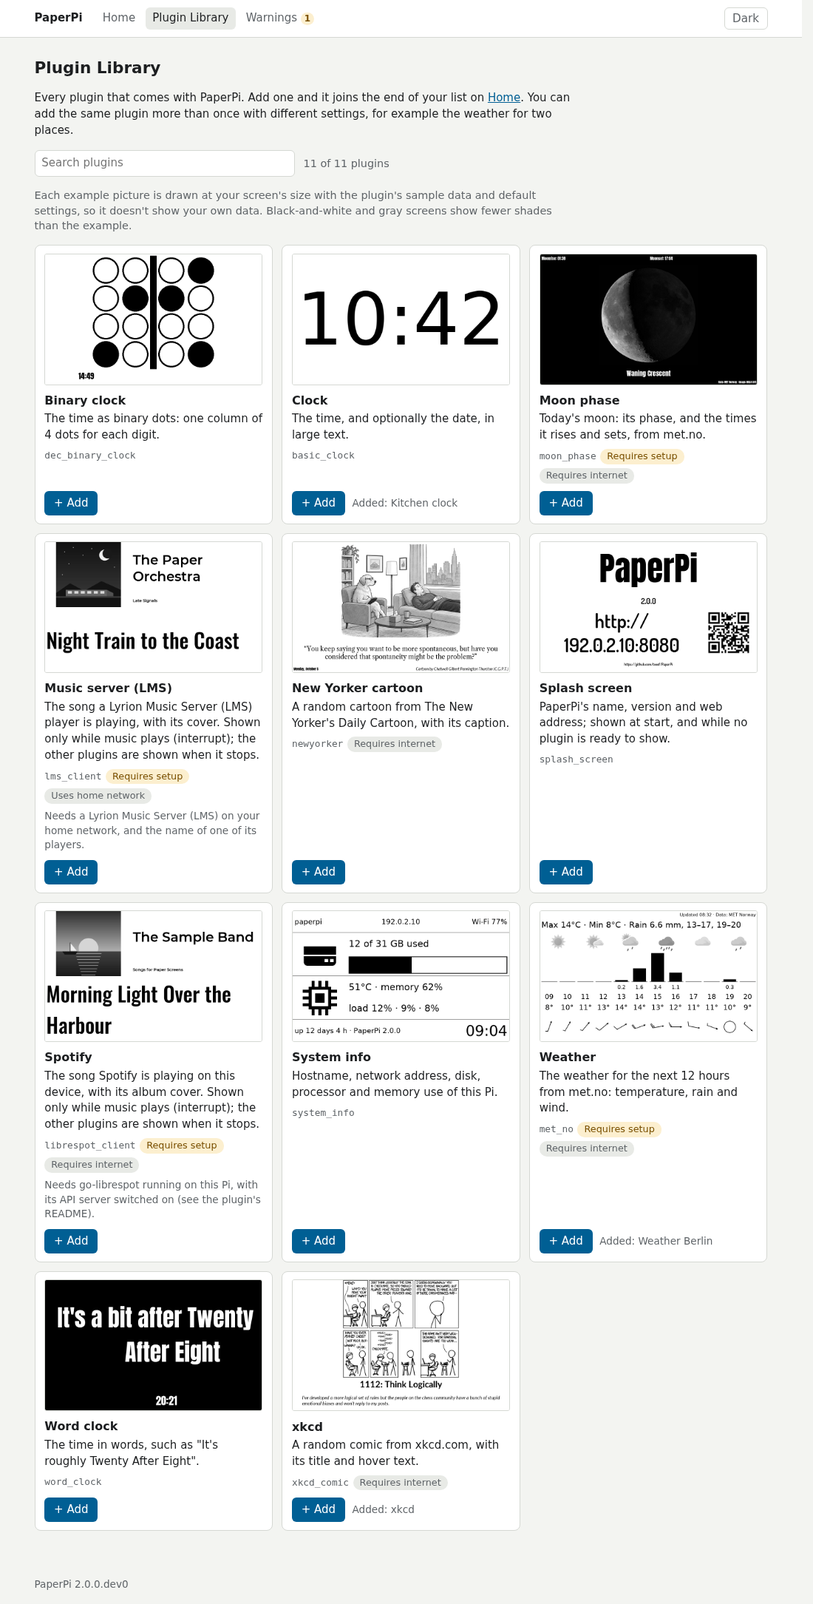
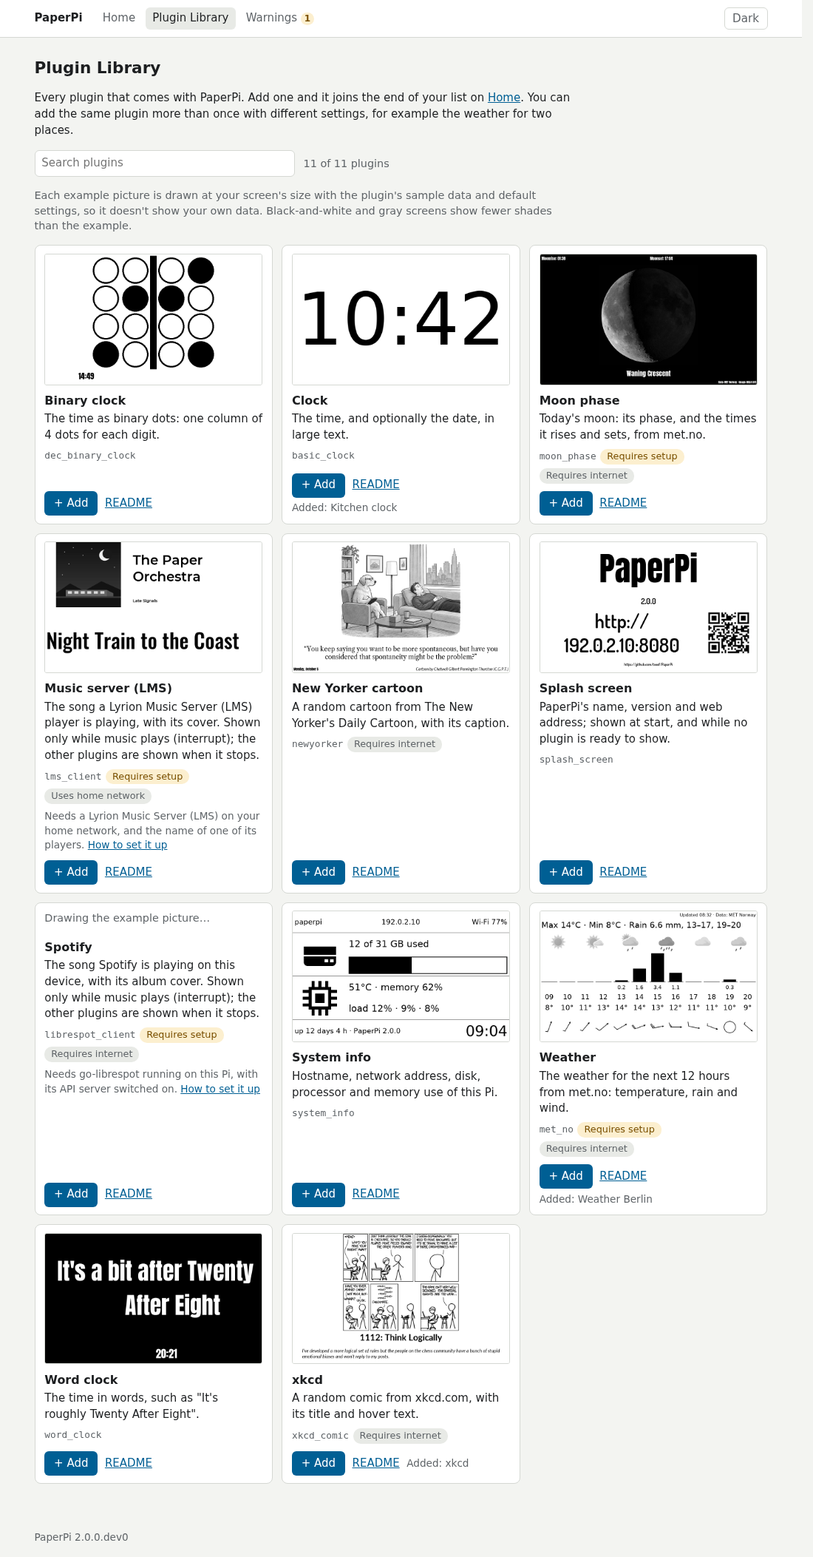
README page for every plugin in the Plugin Library, linked from the cards and the setup note

Changed region(s): [[0.0309, 0.0309, 0.9273, 0.9572], [0.8964, 0.0, 0.9273, 0.0309], [0.2473, 0.0, 0.2782, 0.0309]]

diff --git a/src/paperpi/web/static/style.css b/src/paperpi/web/static/style.css
@@ -272,6 +272,16 @@ button.switch[aria-checked="true"] i::after { left: 14px; }
 .library .labels { display: flex; flex-wrap: wrap; gap: 0.35rem; align-items: center; }
 .library .labels code { font-size: 0.8rem; background: none; padding: 0; color: var(--muted); }
 .library .setup { font-size: 0.85rem; }
+.readme { overflow-wrap: anywhere; }
+.readme h2 { font-size: 1.05rem; margin-top: 1.5rem; }
+.readme table { border-collapse: collapse; display: block; overflow-x: auto; margin: 0.5rem 0; }
+.readme th, .readme td { border: 1px solid var(--line); padding: 0.3rem 0.5rem; text-align: left;
+  vertical-align: top; overflow-wrap: normal; min-width: 7rem; }
+/* The first column holds names (layouts, settings): kept whole; a wide table scrolls. */
+.readme td:first-child, .readme th:first-child { white-space: nowrap; min-width: 0; }
+.readme pre { background: var(--panel); border: 1px solid var(--line); border-radius: 6px;
+  padding: 0.5rem 0.65rem; overflow-x: auto; }
+.readme pre code { background: none; padding: 0; }
 .library .add-row { margin: auto 0 0; padding-top: 0.2rem; display: flex; flex-wrap: wrap;
   gap: 0.3rem 0.6rem; align-items: center; }
 .library .add-row .hint { font-size: 0.85rem; }

diff --git a/src/paperpi/web/templates/library.html b/src/paperpi/web/templates/library.html
@@ -30,8 +30,10 @@ screens show fewer shades than the example.</p>
     <p>{{ item.description }}</p>
     <p class="labels"><code>{{ item.type }}</code>
       {%- for text in item.labels %} <span class="chip{% if text == 'Requires setup' %} warn{% endif %}">{{ text }}</span>{% endfor %}</p>
-    {% if item.plugin.setup %}<p class="hint setup">{{ item.plugin.setup }}</p>{% endif %}
+    {% if item.plugin.setup %}<p class="hint setup">{{ item.plugin.setup }}
+      <a href="/library/{{ item.type }}/readme">How to set it up</a></p>{% endif %}
     <p class="add-row"><a class="add" href="/library/{{ item.type }}">+ Add</a>
+      <a href="/library/{{ item.type }}/readme">README</a>
       {%- if added[item.type] %} <span class="hint">Added: {{ added[item.type]|join(", ") }}</span>{% endif %}</p>
     {% else %}
     <h2>{{ item.title }}</h2>

diff --git a/src/paperpi/web/templates/add.html b/src/paperpi/web/templates/add.html
@@ -5,9 +5,11 @@
 {% block main %}
 <p class="crumbs"><a href="/library">Plugin Library</a> › {{ item.title }}</p>
 <h1>Add {{ item.title }}</h1>
-<p>{{ item.description }} <code class="hint">{{ item.type }}</code></p>
+<p>{{ item.description }} <code class="hint">{{ item.type }}</code>
+  · <a href="/library/{{ item.type }}/readme">README</a></p>
 {% if problem %}<p class="problem">{{ problem|sentence }}</p>{% endif %}
-{% if item.plugin.setup %}<p class="note">Before it works: {{ item.plugin.setup }}</p>{% endif %}
+{% if item.plugin.setup %}<p class="note">Before it works: {{ item.plugin.setup }}
+  <a href="/library/{{ item.type }}/readme">How to set it up</a></p>{% endif %}
 {% if item.required %}
 <div class="note">
   <p>This plugin is not shown until these settings are filled in, so it is added switched off:</p>

diff --git a/src/paperpi/web/templates/readme.html b/src/paperpi/web/templates/readme.html
@@ -1,0 +1,12 @@
+{% extends "base.html" %}
+{% set logged_in = true %}
+{% set page = "library" %}
+{% block title %}{{ item.title }} README · PaperPi{% endblock %}
+{% block main %}
+<p class="crumbs"><a href="/library">Plugin Library</a> › {{ item.title }}</p>
+<h1>{{ item.title }}</h1>
+<p class="hint"><code>{{ item.type }}</code>: the plugin's README, as it comes with this
+version of PaperPi.</p>
+<div class="readme">{{ body|safe }}</div>
+<p><a class="add" href="/library/{{ item.type }}">+ Add</a> <a href="/library">Back to the Plugin Library</a></p>
+{% endblock %}

diff --git a/src/paperpi/web/readme.py b/src/paperpi/web/readme.py
@@ -1,0 +1,83 @@
+"""A plugin's ``README.md`` as part of a web page (the Plugin Library's README page).
+
+The README is written for GitHub, next to the code. In the web interface:
+- its first heading is left out (the page has its own, with the plugin's title);
+- pictures are left out: they are in ``tests/images/``, which is not installed (the
+  Library shows the plugin's own example pictures), and so are the "Sample images"
+  section and the paragraphs, table rows and tables left empty without them;
+- a link to another plugin's README opens that plugin's README page; links to websites
+  stay; other links (files of PaperPi's source, places in the page) become plain text;
+- HTML written in the README is shown as text, not used.
+"""
+
+from __future__ import annotations
+
+import re
+from collections.abc import Collection
+
+from markdown_it import MarkdownIt
+from markdown_it.token import Token
+
+_MD = MarkdownIt("commonmark", {"html": False}).enable("table")
+_OTHER_README = re.compile(r"(?:\.\./)?([a-z][a-z0-9_]*)/README\.md(?:#.*)?")
+_EMPTY_ROW = re.compile(r"<tr>(?:\s*<t[dh](?: [^>]*)?>\s*</t[dh]>)+\s*</tr>\s*")
+_EMPTY_BODY = re.compile(r"<tbody>\s*</tbody>\s*")
+_HEAD_ONLY = re.compile(r"<table>\s*<thead>(?:(?!</table>).)*</thead>\s*</table>\s*", re.DOTALL)
+_EMPTY_TABLE = re.compile(r"<table>\s*(?:<thead>\s*</thead>\s*)?</table>\s*")
+
+
+def to_html(text: str, plugin_types: Collection[str]) -> str:
+    """``text`` (Markdown) as HTML; ``plugin_types`` are the plugins with a README page."""
+    tokens = _MD.parse(text)
+    if len(tokens) >= 3 and tokens[0].type == "heading_open" and tokens[0].tag == "h1":
+        tokens = tokens[3:]
+    tokens = _without_section(tokens, "Sample images")
+    for token in tokens:
+        if token.type == "inline" and token.children:
+            token.children = _inline(token.children, plugin_types)
+    found = _MD.renderer.render(tokens, _MD.options, {})
+    found = found.replace("<p></p>\n", "")  # a paragraph that only had a picture
+    found = _EMPTY_ROW.sub("", found)
+    found = _EMPTY_BODY.sub("", found)
+    found = _HEAD_ONLY.sub("", found)
+    return _EMPTY_TABLE.sub("", found)
+
+
+def _without_section(tokens: list[Token], title: str) -> list[Token]:
+    """``tokens`` without the ``##`` section called ``title`` (up to the next one)."""
+    kept: list[Token] = []
+    skipping = False
+    for index, token in enumerate(tokens):
+        if token.type == "heading_open" and token.tag in ("h1", "h2"):
+            skipping = token.tag == "h2" and tokens[index + 1].content.strip() == title
+        if not skipping:
+            kept.append(token)
+    return kept
+
+
+def _inline(children: list[Token], plugin_types: Collection[str]) -> list[Token]:
+    kept: list[Token] = []
+    opened: list[bool] = []  # per open link: is it kept?
+    for token in children:
+        if token.type == "image":
+            continue
+        if token.type == "link_open":
+            href = _href(str(token.attrGet("href") or ""), plugin_types)
+            opened.append(href is not None)
+            if href is None:
+                continue
+            token.attrSet("href", href)
+        elif token.type == "link_close" and not opened.pop():
+            continue
+        kept.append(token)
+    return kept
+
+
+def _href(href: str, plugin_types: Collection[str]) -> str | None:
+    """Where a link in a README goes on the web page; ``None``: no link (plain text)."""
+    if href.startswith(("https://", "http://")):
+        return href
+    other = _OTHER_README.fullmatch(href)
+    if other and other.group(1) in plugin_types:
+        return f"/library/{other.group(1)}/readme"
+    return None

diff --git a/tests/test_web_plugins.py b/tests/test_web_plugins.py
@@ -194,9 +194,11 @@ def test_the_library_works_while_the_config_file_cant_be_read(client, cfg):
 def test_a_setup_note_is_on_the_card_and_the_add_page(client):
     note = web_plugins.library_item("librespot_client").plugin.setup
     assert "go-librespot" in note
-    assert f'<p class="hint setup">{note}</p>' in html.unescape(client.get("/library").text)
+    link = '<a href="/library/librespot_client/readme">How to set it up</a></p>'
+    page = html.unescape(client.get("/library").text)
+    assert f'<p class="hint setup">{note}\n      {link}' in page
     form = html.unescape(client.get("/library/librespot_client").text)
-    assert f'<p class="note">Before it works: {note}</p>' in form
+    assert f'<p class="note">Before it works: {note}\n  {link}' in form
     assert "added switched off" not in form  # nothing to fill in
 
 
@@ -494,3 +496,25 @@ def test_settings_of_an_unknown_plugin_type_cant_be_saved(editor, cfg):
     cfg.write_text(CONFIG.replace('type = "basic_clock"\n\n', 'type = "nothing"\n\n', 1))
     with pytest.raises(EditError, match="its plugin type 'nothing' can't be used"):
         editor.save_settings(0, "Clock", {"hours": ["12"]})
+
+
+def test_every_card_links_to_the_plugins_readme(client):
+    page = client.get("/library").text
+    for item in web_plugins.library():
+        assert f'<a href="/library/{item.type}/readme">README</a>' in page, item.type
+
+
+def test_the_readme_page(client):
+    page = client.get("/library/librespot_client/readme").text
+    assert "<h1>Spotify</h1>" in page and "<h1>librespot_client</h1>" not in page
+    assert '<a href="https://github.com/devgianlu/go-librespot">go-librespot</a>' in page
+    assert "enabled: true" in page  # the config.yml example
+    assert "<img" not in page and "Sample images" not in page
+    assert '<a class="add" href="/library/librespot_client">+ Add</a>' in page
+
+
+@pytest.mark.parametrize("plugin_type", ["nope", "debugging"])
+def test_no_readme_page_for_unknown_or_hidden_plugins(client, plugin_type):
+    response = client.get(f"/library/{plugin_type}/readme")
+    assert response.status_code == 404 and "No README for this plugin." in response.text
+    assert client.get("/library/..%2F..%2Fconfig/readme").status_code == 404

diff --git a/tests/test_web_readme.py b/tests/test_web_readme.py
@@ -1,0 +1,53 @@
+"""A plugin's README as part of a web page (paperpi.web.readme)."""
+
+from paperpi import plugins
+from paperpi.web.readme import to_html
+
+TYPES = ["basic_clock", "met_no"]
+
+
+def test_the_first_heading_and_pictures_are_left_out():
+    found = to_html(
+        "# basic_clock\n\nShows the time.\n\n![time](../../tests/images/x.png)\n", TYPES
+    )
+    assert found == "<p>Shows the time.</p>\n"
+
+
+def test_a_table_of_pictures_and_the_sample_images_section_are_left_out():
+    text = (
+        "## Layouts\n\n| Layout | Shows |\n|---|---|\n| `time` | the time |\n\n"
+        "| time | small |\n|---|---|\n| ![a](a.png) | ![b](b.png) |\n\n"
+        "## Sample images\n\nAll sample images are in `tests/images/`.\n\n"
+        "## Licence\n\nFree.\n"
+    )
+    found = to_html(text, TYPES)
+    assert found.count("<table>") == 1 and "<td><code>time</code></td>" in found
+    assert "Sample images" not in found and "tests/images" not in found
+    assert "<h2>Licence</h2>\n<p>Free.</p>" in found
+
+
+def test_links_to_websites_and_other_readmes_stay_other_links_become_text():
+    text = (
+        "[go](https://example.com/go), [weather](../met_no/README.md#layouts), "
+        "[gone](../gone/README.md), [main](../../../../README.md), [here](#settings), "
+        "[`fonts/OFL.txt`](../../fonts/OFL.txt)"
+    )
+    found = to_html(text, TYPES)
+    assert '<a href="https://example.com/go">go</a>' in found
+    assert '<a href="/library/met_no/readme">weather</a>' in found
+    assert "gone, main, here, <code>fonts/OFL.txt</code>" in found
+    assert found.count("<a ") == 2
+
+
+def test_html_in_a_readme_is_shown_as_text():
+    found = to_html("<script>alert(1)</script> and <b>bold</b> [x](javascript:alert(1))", TYPES)
+    assert "&lt;script&gt;" in found and "<script" not in found and "<b>" not in found
+    assert "href=" not in found  # not a link that runs a script
+
+
+def test_every_plugins_readme_can_be_shown():
+    types = plugins.available()
+    for plugin_type in types:
+        found = to_html(plugins.readme(plugin_type), types)
+        assert "<h2>Layouts</h2>" in found and "<img" not in found, plugin_type
+        assert "Sample images" not in found

diff --git a/src/paperpi/web/app.py b/src/paperpi/web/app.py
@@ -23,7 +23,8 @@ Address            What it does
 ``/library``       Plugin Library: every plugin type with an example picture
                    (``/library/pictures/<file>``; ``/library/<type>/picture`` is the
                    picture's part of the page, asked for again until it is drawn);
-                   ``/library/<type>`` adds one and opens its settings
+                   ``/library/<type>`` adds one and opens its settings;
+                   ``/library/<type>/readme`` shows its README
 ``/changes``       Review changes: hand edits to the config file that PaperPi does not
                    use yet (``/changes/apply`` loads the file again, ``/changes/undo``
                    puts back the file PaperPi uses); a bar on every page links here while
@@ -67,7 +68,8 @@ from starlette.concurrency import run_in_threadpool
 from .. import __version__, limits
 from ..config import ConfigError, folder_name, read_text
 from ..logbook import Logbook
-from . import changes, logs, warnings
+from ..plugins import readme as readme_text
+from . import changes, logs, readme, warnings
 from .auth import COOKIE_SECONDS, Auth, new_cookie
 from .config_file import EditError, UnknownForm, fingerprint, kept_path, saved_here
 from .forms import Read, fields, form_texts
@@ -755,6 +757,15 @@ def create_app(
             return library_page(request, 404, "No such plugin.")
         values.setdefault("name", editor.suggested_name(item))
         return page(request, "add.html", status, item=item, **values)
+
+    @app.get("/library/{plugin_type}/readme", response_class=HTMLResponse)
+    def readme_page(request: Request, plugin_type: str):
+        item = library_item(plugin_type)
+        text = readme_text(plugin_type) if item is not None and item.plugin else None
+        if text is None:
+            return library_page(request, 404, "No README for this plugin.")
+        body = readme.to_html(text, [i.type for i in library() if i.plugin])
+        return page(request, "readme.html", item=item, body=body)
 
     @app.get("/library/{plugin_type}", response_class=HTMLResponse)
     def add_form(request: Request, plugin_type: str):

diff --git a/src/paperpi/plugins/__init__.py b/src/paperpi/plugins/__init__.py
@@ -7,6 +7,7 @@ from __future__ import annotations
 
 import importlib
 import pkgutil
+from importlib import resources
 
 from ..plugin import Plugin, PluginDefinitionError
 
@@ -35,3 +36,14 @@ def load(plugin_type: str, package: str = __name__) -> Plugin:
             f"plugin {plugin_type!r}: PLUGIN.type is {plugin.type!r}, must match the folder"
         )
     return plugin
+
+
+def readme(plugin_type: str, package: str = __name__) -> str | None:
+    """The text of the plugin's ``README.md``, or ``None`` when it has none (or the type is
+    unknown)."""
+    if plugin_type not in available(package):
+        return None
+    try:
+        return (resources.files(package) / plugin_type / "README.md").read_text("utf-8")
+    except (OSError, UnicodeDecodeError):
+        return None

diff --git a/src/paperpi/plugins/librespot_client/__init__.py b/src/paperpi/plugins/librespot_client/__init__.py
@@ -281,10 +281,7 @@ PLUGIN = Plugin(
     type="librespot_client",
     title="Spotify",
     network="internet",
-    setup=(
-        "Needs go-librespot running on this Pi, with its API server "
-        "switched on (see the plugin's README)."
-    ),
+    setup=("Needs go-librespot running on this Pi, with its API server switched on."),
     description="The song Spotify is playing on this device, with its album cover. "
     "Shown only while music plays (interrupt); the other plugins are shown when it stops.",
     settings=Settings,

diff --git a/README.md b/README.md
@@ -103,7 +103,7 @@ uv run paperpi run --config paperpi.toml --out screen/ --state-dir state/ --heal
 `paperpi run` also starts the web interface, on port 8080. Every page has a menu (on a phone: one **☰ Menu** button) and a **Dark**/**Light** button; otherwise the pages follow your device's light or dark setting.
 
 ![The Home page of the web interface](docs/images/web/home-light.png)
- Open it by the Pi's IP address on a phone or computer on the same home network, for example `http://192.168.1.20:8080` (your router's list of devices shows the Pi's address; on the Pi, `hostname -I` prints it). Names such as `paperpi.local` are refused for now, for safety (see [docs/decisions/web-interface.md](docs/decisions/web-interface.md)). It has three pages for plugins: **Home** (at the top, the picture on the screen now, which updates by itself while the page is open, with **Skip to next**, **Refresh** (fetch new data and draw again) and **Dismiss alert**; below it a card for every plugin, as a list or a grid, with its latest picture, its place in the order and its status: **Show now**, switch it on or off, move it with the arrows or drag it after **Change order**, remove it, open its settings), **Plugin Library** (a card for every plugin that comes with PaperPi, with its name, labels such as "Requires setup" and "Requires internet", the names you already added it under, a search box, and an example picture drawn at your screen's size from the plugin's sample data (in 256 shades of gray, or in color for a color screen), in the background: it starts a minute after PaperPi starts or when you open the page, and until then the page says "Drawing the example picture…"; choose **+ Add**, its name or picture to add it at the end of the list) and each plugin's **Settings** (every setting with its help text and default; errors are shown next to the field; **Preview** draws the plugin with the settings in the form before you save them, at your screen's size, without touching the screen; if the real data can't be drawn, it shows sample data and says why). A change there is saved in the config file and applies at once. Comments in the file stay, except the comments of a plugin you remove and a comment written after a setting, on the same line, when the web interface changes that setting. After you edit the config file by hand, a bar on every page says that PaperPi does not use the changes yet; its **Review changes** page lists them (old and new value, per plugin) and has **Apply changes** (or send the reload signal, `kill -HUP <process id>`; the page shows the command) and **Undo hand edits**, which puts back the file PaperPi uses and keeps your edited file as `paperpi.toml.undone` next to it. If the config file changed since the page was opened, is written in a way the web interface can't change safely, or has a problem that stops PaperPi from using it, nothing is saved and the page says so. A plugin that needs settings (such as `met_no`, which needs a place and your email address) is added switched off, and its Settings page opens to fill them in.
+ Open it by the Pi's IP address on a phone or computer on the same home network, for example `http://192.168.1.20:8080` (your router's list of devices shows the Pi's address; on the Pi, `hostname -I` prints it). Names such as `paperpi.local` are refused for now, for safety (see [docs/decisions/web-interface.md](docs/decisions/web-interface.md)). It has three pages for plugins: **Home** (at the top, the picture on the screen now, which updates by itself while the page is open, with **Skip to next**, **Refresh** (fetch new data and draw again) and **Dismiss alert**; below it a card for every plugin, as a list or a grid, with its latest picture, its place in the order and its status: **Show now**, switch it on or off, move it with the arrows or drag it after **Change order**, remove it, open its settings), **Plugin Library** (a card for every plugin that comes with PaperPi, with its name, labels such as "Requires setup" and "Requires internet", the names you already added it under, a link to its README, a search box, and an example picture drawn at your screen's size from the plugin's sample data (in 256 shades of gray, or in color for a color screen), in the background: it starts a minute after PaperPi starts or when you open the page, and until then the page says "Drawing the example picture…"; choose **+ Add**, its name or picture to add it at the end of the list) and each plugin's **Settings** (every setting with its help text and default; errors are shown next to the field; **Preview** draws the plugin with the settings in the form before you save them, at your screen's size, without touching the screen; if the real data can't be drawn, it shows sample data and says why). A change there is saved in the config file and applies at once. Comments in the file stay, except the comments of a plugin you remove and a comment written after a setting, on the same line, when the web interface changes that setting. After you edit the config file by hand, a bar on every page says that PaperPi does not use the changes yet; its **Review changes** page lists them (old and new value, per plugin) and has **Apply changes** (or send the reload signal, `kill -HUP <process id>`; the page shows the command) and **Undo hand edits**, which puts back the file PaperPi uses and keeps your edited file as `paperpi.toml.undone` next to it. If the config file changed since the page was opened, is written in a way the web interface can't change safely, or has a problem that stops PaperPi from using it, nothing is saved and the page says so. A plugin that needs settings (such as `met_no`, which needs a place and your email address) is added switched off, and its Settings page opens to fill them in.
 
 - **First visit:** the first person to open it sets the web password (at least 8 characters). The browser then stays logged in for a year, until **Log out**. Log out only logs out that browser; a new password logs out every browser.
 - **Forgotten password:** you need access to the Pi itself (a keyboard and screen, or SSH).

diff --git a/docs/decisions/web-interface.md b/docs/decisions/web-interface.md
@@ -110,7 +110,7 @@ In v2 the web interface is the main way to set up and change PaperPi: plugins, s
 
 **Plugin Library**
 - A card per plugin: example picture, a plain name (a new `title` in the plugin's definition, e.g. "Weather"; the type is shown small), the description, labels ("Uses the internet", "Configuration Required"), the names it was already added under, a search box, and **+ Add**.
-- *How the cards are built (part 4, Library refresh A, 2026-10-15):* the label texts are txoof's: **Requires setup** (the plugin has required settings, so it is added switched off, or needs something set up outside PaperPi first: a new `setup` sentence in its definition, shown on the card and the Add page; Spotify needs go-librespot, LMS a music server; txoof 2026-10-15), **Requires internet** and **Uses home network** (a new `network` field in the plugin's definition: `"internet"` or `"home"`, e.g. the LMS plugin talks to a music server at home; Spotify gets "Requires internet", txoof 2026-10-15, as it fetches covers from Spotify and plays nothing offline). The mockup's "For testing" label is left out, as the `debugging` plugin stays hidden from the Library. Cards are sorted by title. The title also starts the suggested name ("Weather 2") and heads the Add page. "Added:" lists the names from the config file per type (left out when the file can't be read). The search box needs JavaScript (`library.js`; hidden without it, and then every card shows): it keeps the cards whose title, type, description or labels hold every word typed, and says "N of M plugins".
+- *How the cards are built (part 4, Library refresh A, 2026-10-15):* the label texts are txoof's: **Requires setup** (the plugin has required settings, so it is added switched off, or needs something set up outside PaperPi first: a new `setup` sentence in its definition, shown on the card and the Add page; Spotify needs go-librespot, LMS a music server; txoof 2026-10-15, with a "How to set it up" link to the README), **Requires internet** and **Uses home network** (a new `network` field in the plugin's definition: `"internet"` or `"home"`, e.g. the LMS plugin talks to a music server at home; Spotify gets "Requires internet", txoof 2026-10-15, as it fetches covers from Spotify and plays nothing offline). The mockup's "For testing" label is left out, as the `debugging` plugin stays hidden from the Library. Cards are sorted by title. The title also starts the suggested name ("Weather 2") and heads the Add page. "Added:" lists the names from the config file per type (left out when the file can't be read). The search box needs JavaScript (`library.js`; hidden without it, and then every card shows): it keeps the cards whose title, type, description or labels hold every word typed, and says "N of M plugins". Every card links to the plugin's **README**, shown by PaperPi itself (`/library/<type>/readme`, txoof 2026-10-15: works without internet and matches the installed version; GitHub was the other choice). The README is Markdown, turned into HTML with the `markdown-it-py` package (CommonMark plus tables; HTML in the file is shown as text). Left out: the first heading (the page has the title), pictures and the "Sample images" section (`tests/images/` is not installed), and what is left empty without them. Links to other plugins' READMEs open their page; links to websites stay; other links (source files) become plain text.
 - **Look closer:** a larger view with a button for every layout. Layouts also get a plain title ("Next 12 hours"), shown in the Library and on the settings page, with the code name small. A picture is drawn ahead for every layout; a layout for upright screens says it isn't used on a landscape screen.
 - **+ Add** opens a small window (name, whether it needs settings first); without JavaScript it falls back to the Add page.
 
